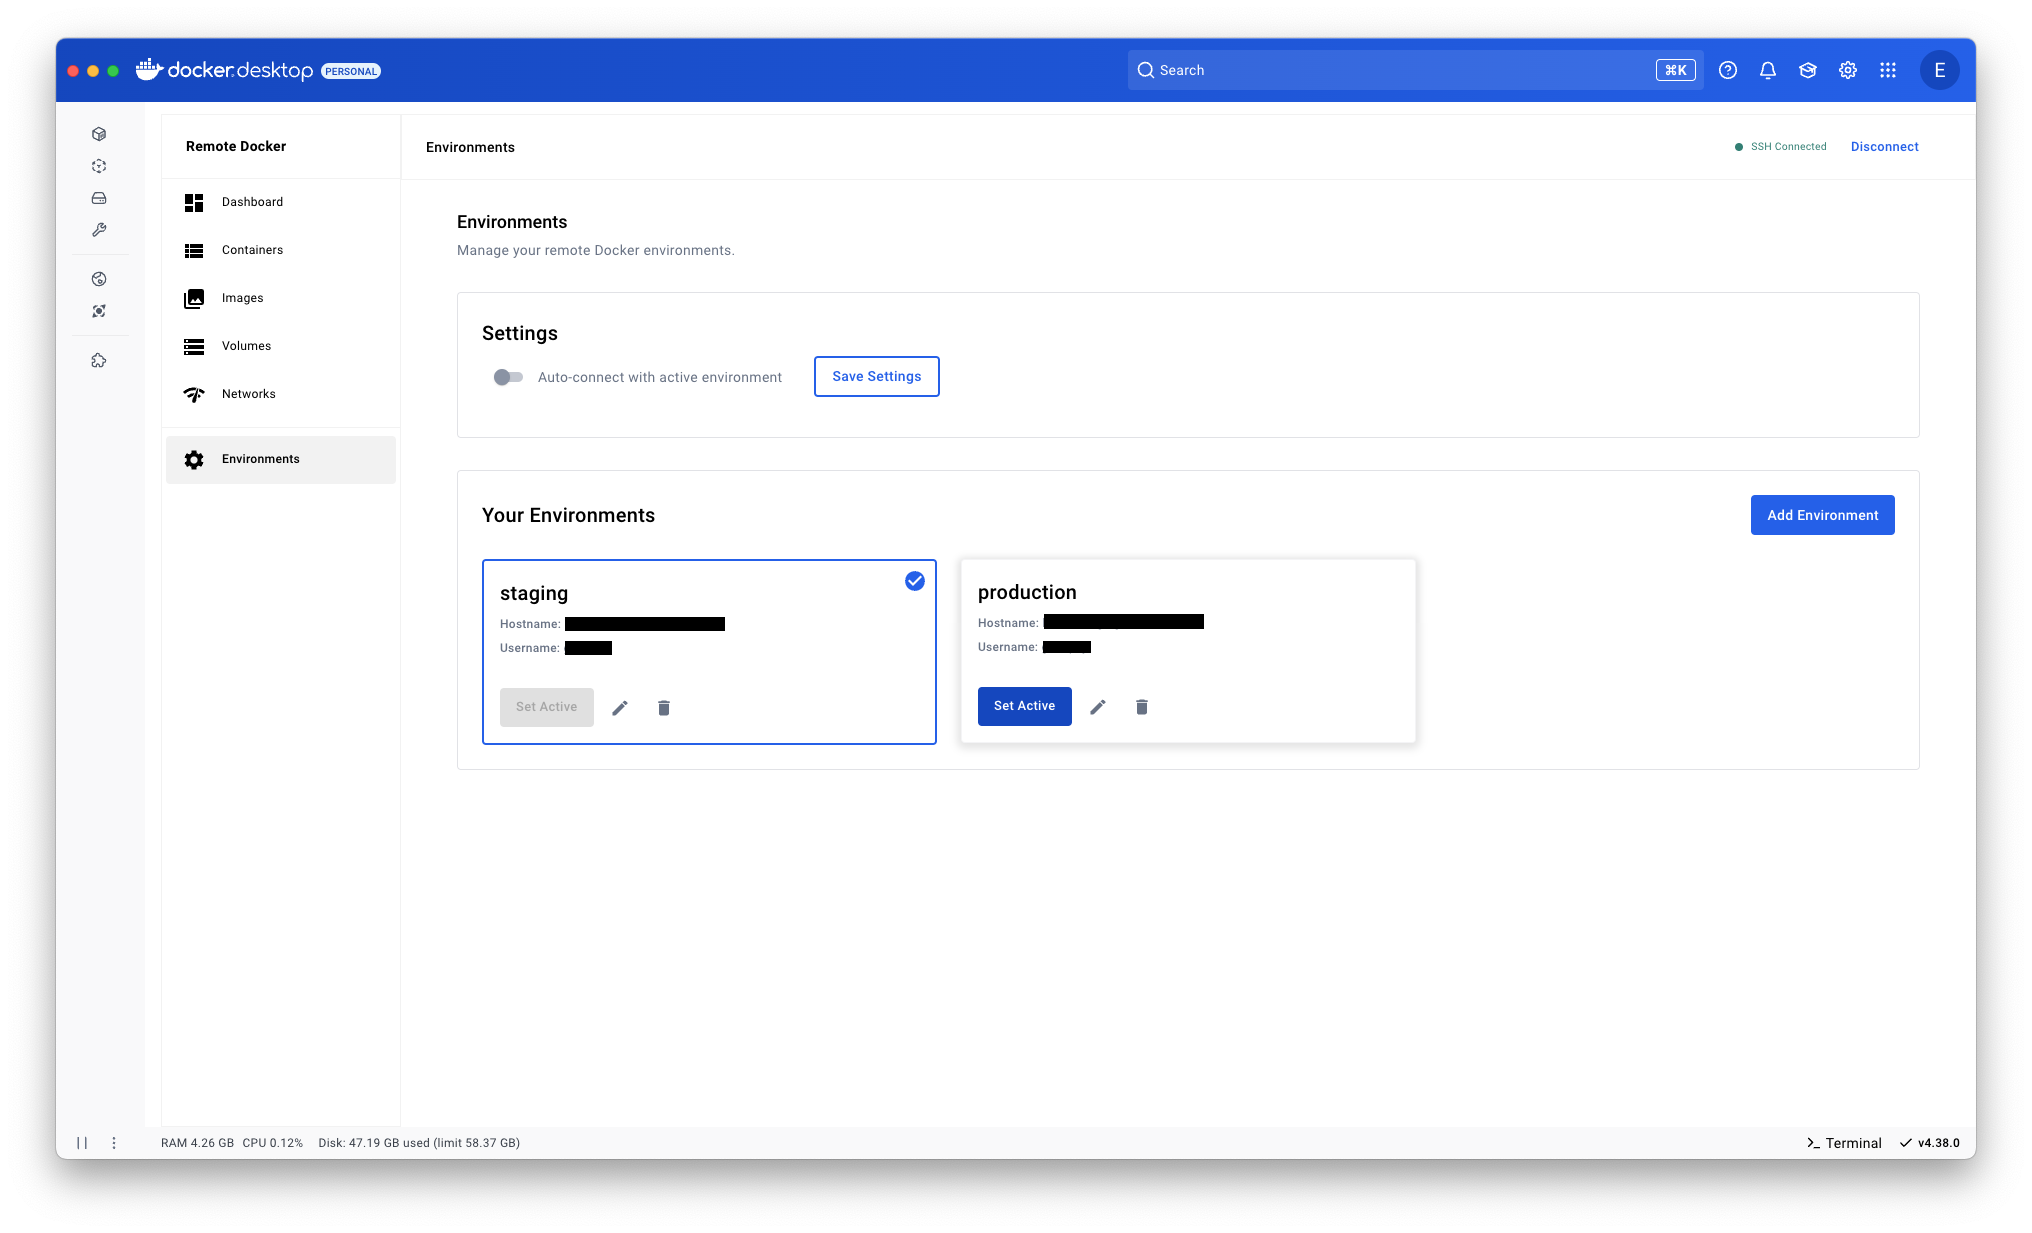
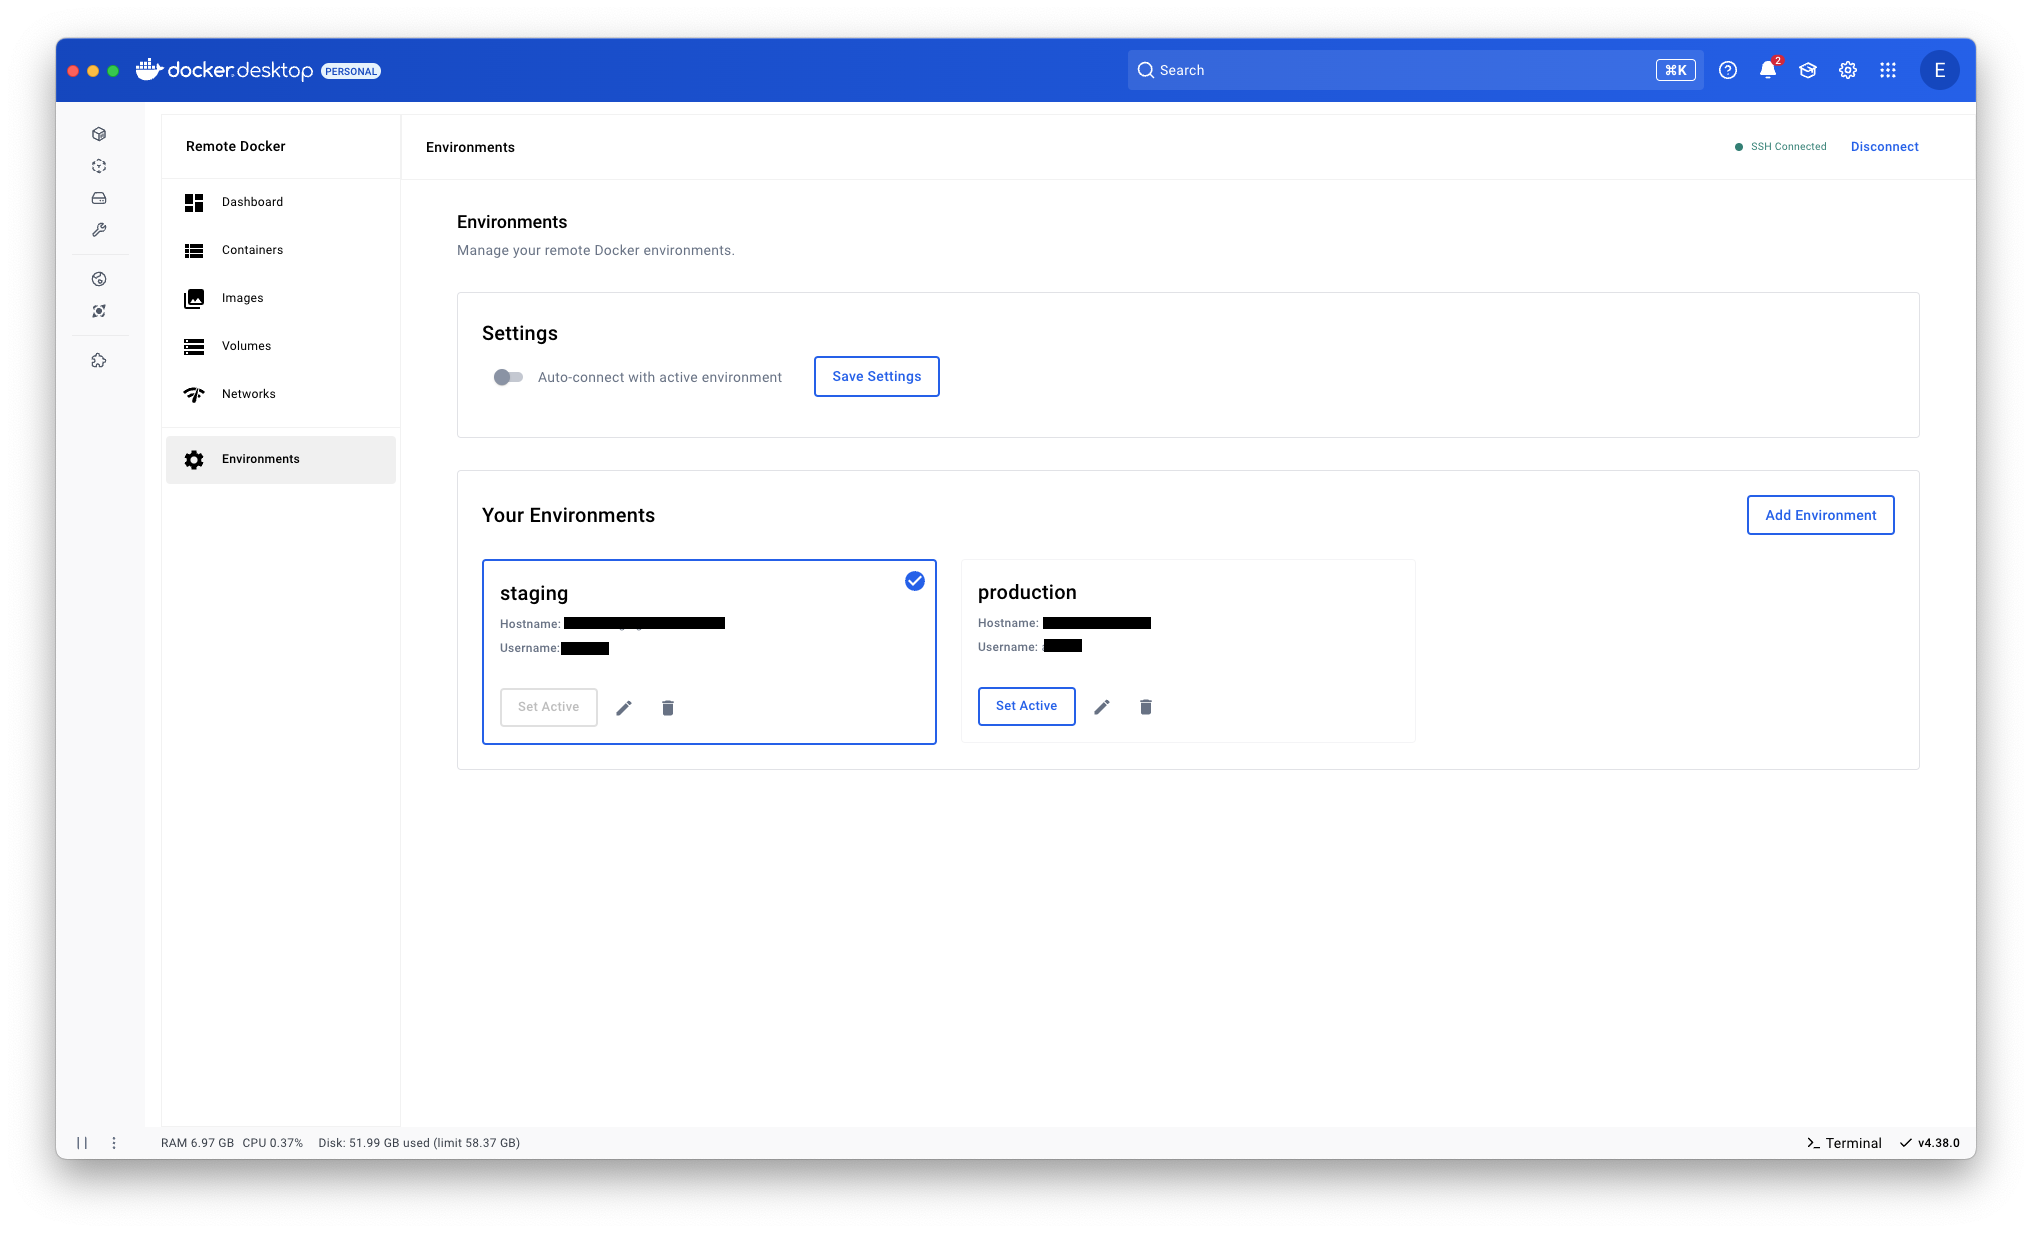
refactor for dark mode

diff --git a/ui/src/pages/settings/Environments.tsx b/ui/src/pages/settings/Environments.tsx
@@ -279,7 +279,7 @@ const Environments: React.FC<EnvironmentsProps> = ({
             Your Environments
           </Typography>
           <Button
-            variant="contained"
+            variant="outlined"
             onClick={handleOpenAddDialog}
             disabled={isLoading}
           >
@@ -326,6 +326,7 @@ const Environments: React.FC<EnvironmentsProps> = ({
                   <CardActions>
                     <Button
                       size="small"
+                      variant="outlined"
                       onClick={() => handleSetActive(env)}
                       disabled={settings.activeEnvironmentId === env.id || isLoading}
                     >
@@ -382,7 +383,12 @@ const Environments: React.FC<EnvironmentsProps> = ({
           </Stack>
         </DialogContent>
         <DialogActions>
-          <Button onClick={handleCloseDialogs} disabled={isLoading}>Cancel</Button>
+          <Button
+            onClick={handleCloseDialogs}
+            variant="outlined"
+            disabled={isLoading}
+          >Cancel
+          </Button>
           <Button
             onClick={handleAddEnvironment}
             variant="contained"
@@ -419,7 +425,13 @@ const Environments: React.FC<EnvironmentsProps> = ({
           </Stack>
         </DialogContent>
         <DialogActions>
-          <Button onClick={handleCloseDialogs} disabled={isLoading}>Cancel</Button>
+          <Button
+            onClick={handleCloseDialogs}
+            variant="outlined"
+            disabled={isLoading}
+          >
+            Cancel
+          </Button>
           <Button
             onClick={handleEditEnvironment}
             variant="contained"

diff --git a/ui/src/App.tsx b/ui/src/App.tsx
@@ -591,7 +591,7 @@ export function App() {
             component="div"
             sx={{
               fontSize: '1rem',
-              fontWeight: 600
+              fontWeight: (theme) => theme.typography.fontWeightMedium
             }}
           >
             Remote Docker
